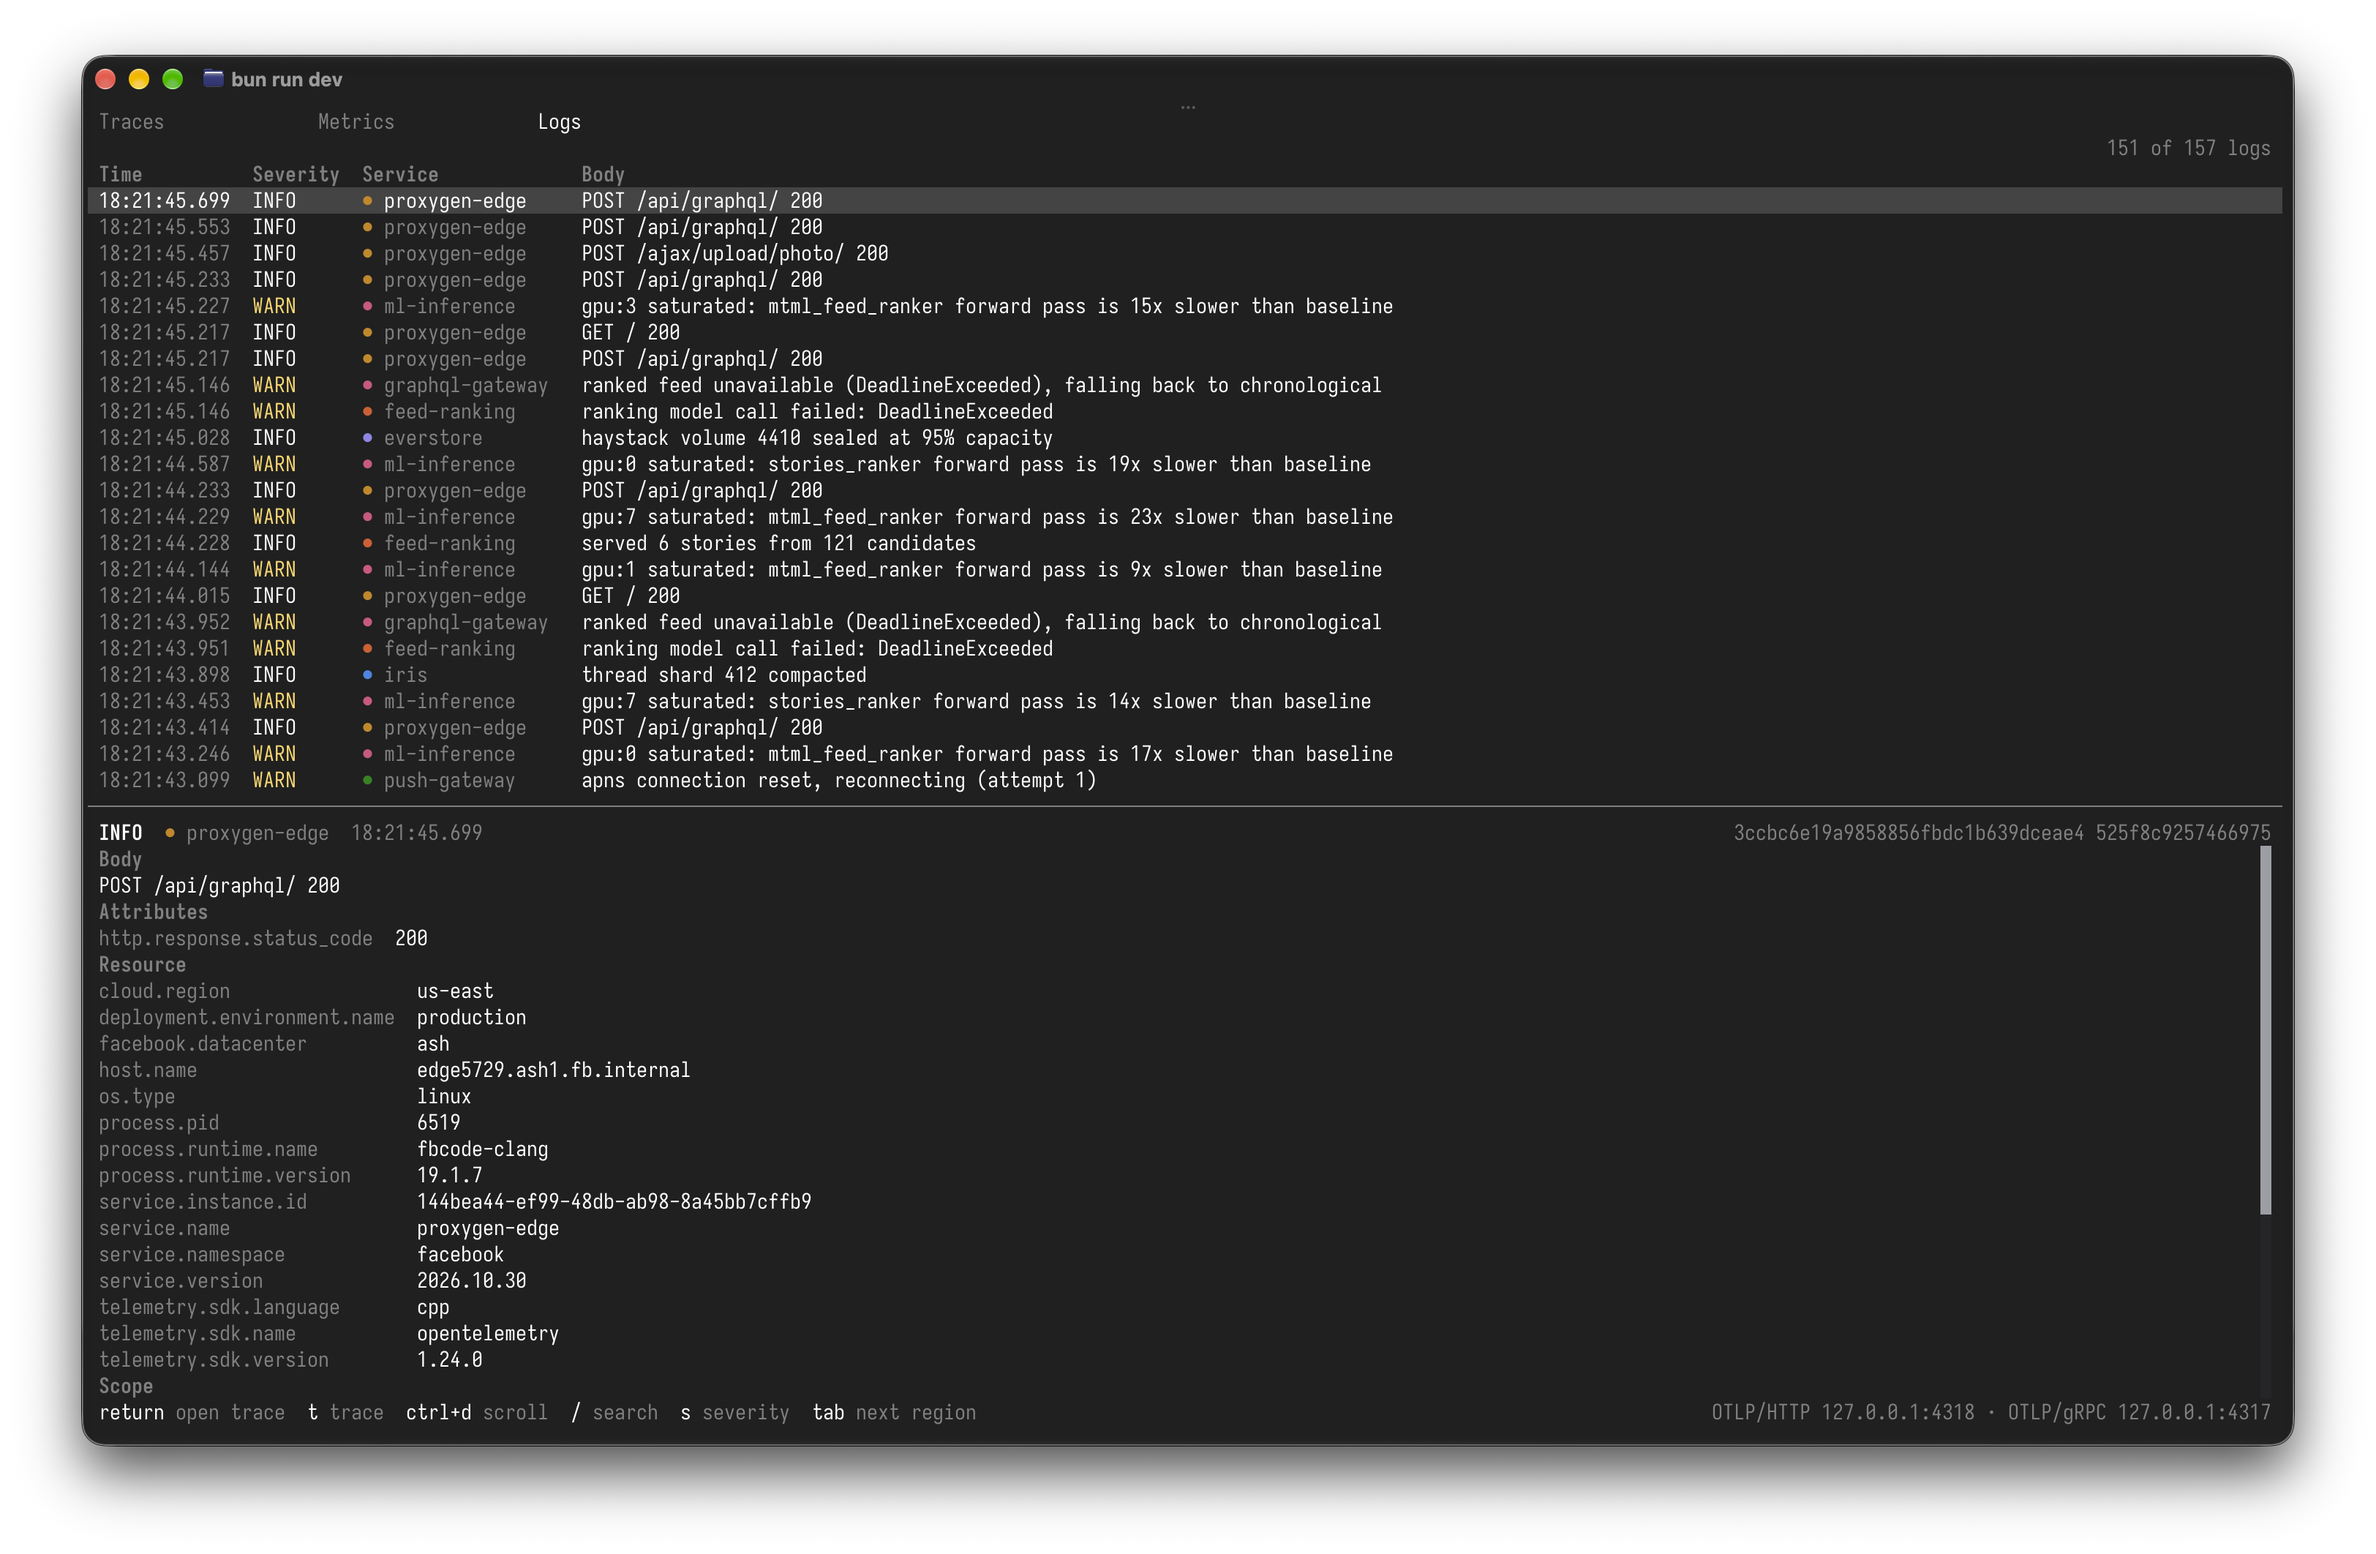
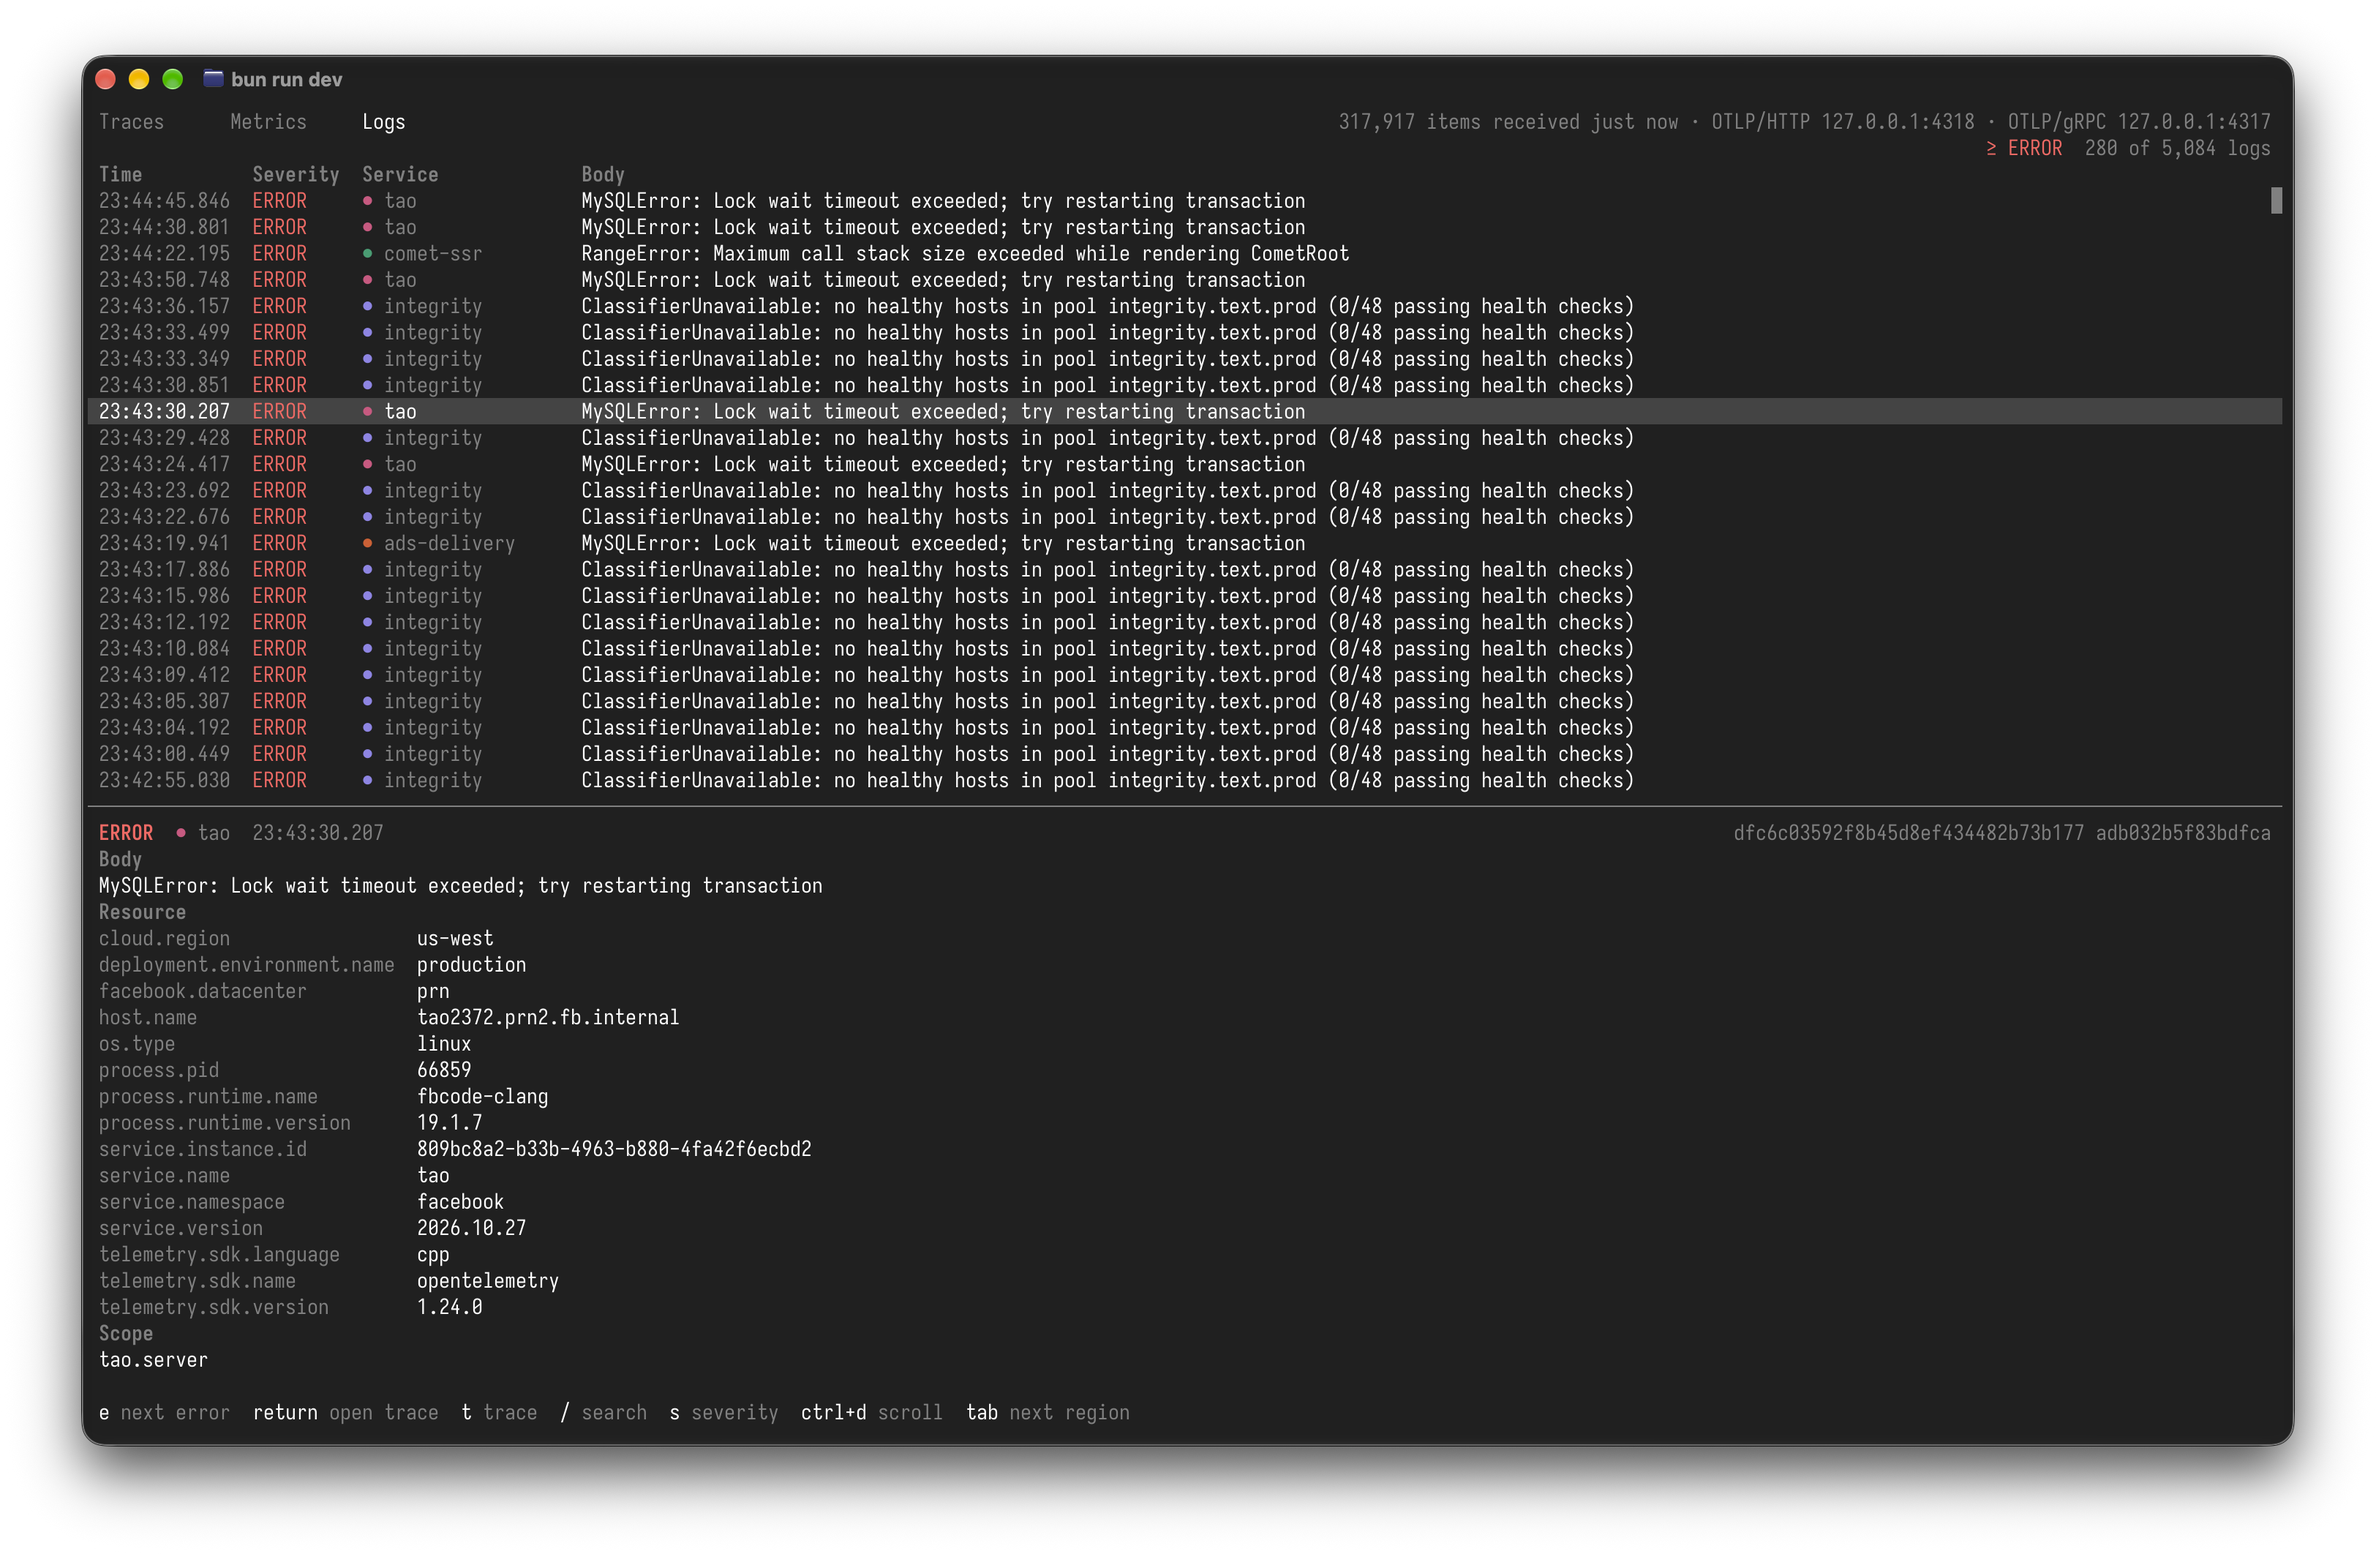
docs: refresh the screenshot of the logs view

diff --git a/README.md b/README.md
@@ -12,7 +12,7 @@ Send it data over OTLP/HTTP or OTLP/gRPC and browse it in your terminal.
 
 ![Metric details with a series table, a value chart, and the selected series' resource and scope](docs/metrics-view.png)
 
-![Logs view with severity, service, and body columns and the selected log's attributes and resource](docs/logs-view.png)
+![Logs view filtered to errors, with severity, service, and body columns and the selected log's body, resource, scope, and trace ID](docs/logs-view.png)
 
 ## Views
 
